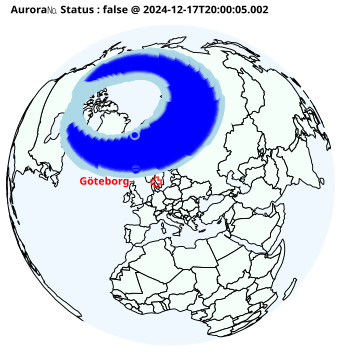
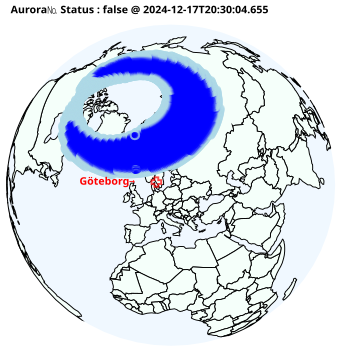
20241217203018 added aur.html

diff --git a/aur.html b/aur.html
@@ -7,6 +7,6 @@
 <body>
     <h1>Aurora Watch</h1>
     <img src="a.png" alt="Aurora Image" style="width:100%;max-width:600px;">
-    <p>Aurora Level 🌌= (0.5) was observed. (2024-12-17T20:00:05.002)</p>
+    <p>Aurora Level 🌌= (0.5) was observed. (2024-12-17T20:30:04.655)</p>
 </body>
 </html>
